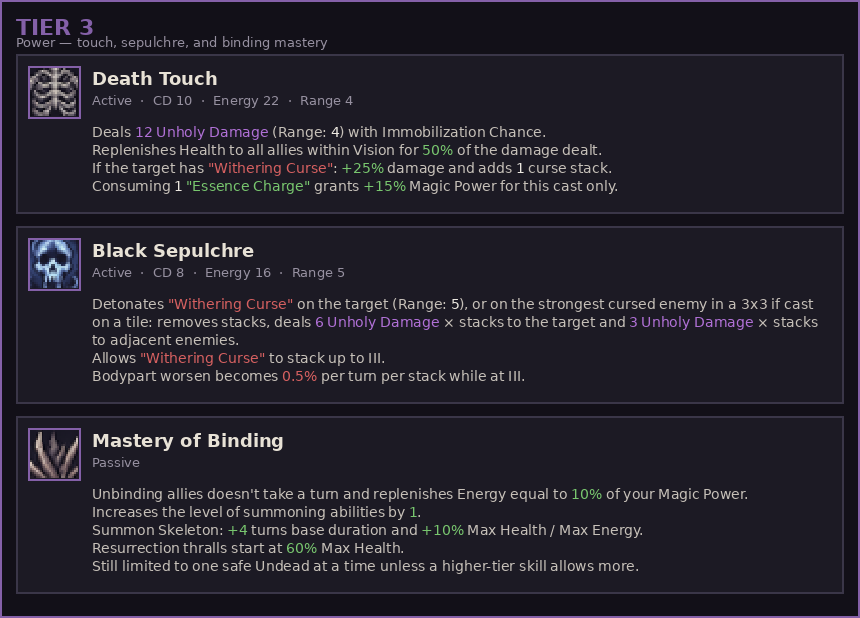
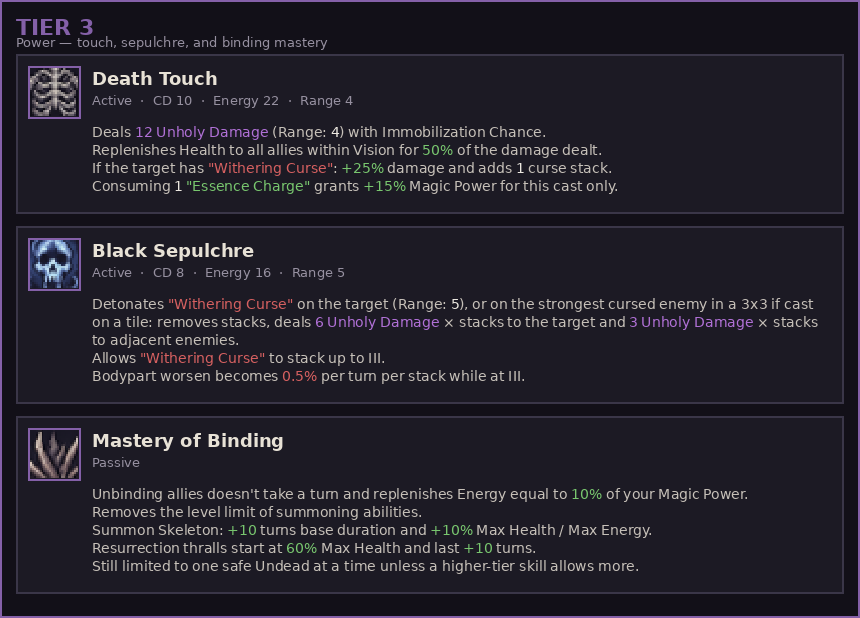
Update Necromancy Nexus preview assets and 1.14.0 changelog draft.
Refresh tier preview images and document the summon Explore/Swap context menu for the Nexus description.

Changed region(s): [[0.1209, 0.7994, 0.7558, 0.8916]]

diff --git a/necromancy/_debug/nexus_preview/preview.html b/necromancy/_debug/nexus_preview/preview.html
@@ -1,4 +1,4 @@
-lets<!DOCTYPE html>
+<!DOCTYPE html>
 <html lang="en">
 <head>
 <meta charset="utf-8" />
